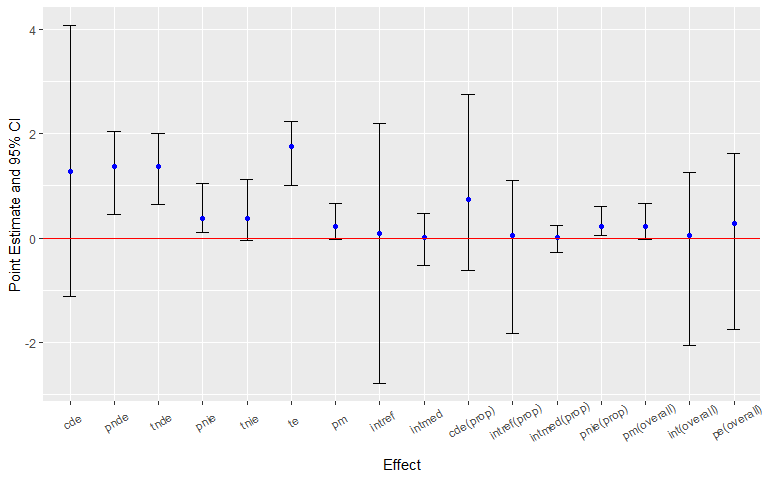
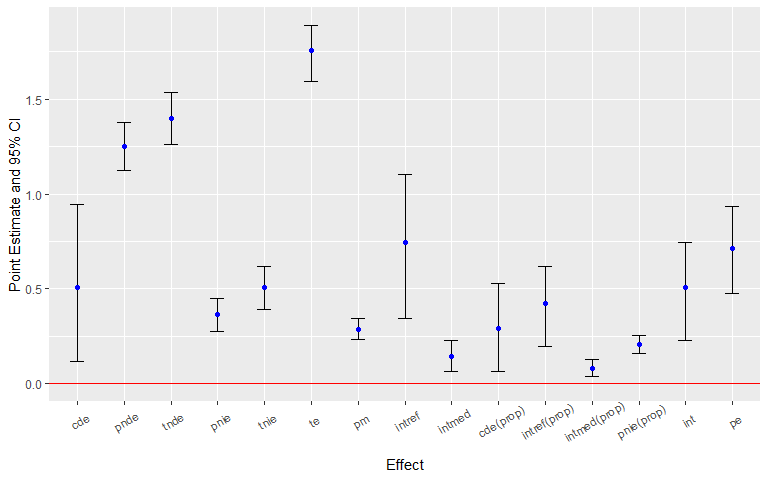
update readme

diff --git a/README.md b/README.md
@@ -324,7 +324,7 @@ analysis for measurement error via *regression calibration* by [Carroll
 et al. (1995)](https://www.taylorfrancis.com/books/9780429139635),
 *SIMEX* by [Cook et
 al. (1994)](https://www.jstor.org/stable/2290994?seq=1#metadata_info_tab_contents)
-or *MCSIMEX* by [Küchenhoff et
+and [Küchenhoff et
 al. (2006)](https://pubmed.ncbi.nlm.nih.gov/16542233/). The sensitivity
 analysis for measurement error is currently available for *the
 regression-based approach* and *the g-formula approach*.
@@ -349,7 +349,7 @@ scientific setting. The simulated dataset contains a binary exposure, a
 binary mediator, a continuous mediator, a continuous outcome and two
 pre-exposure confounders.
 
-    n <- 40
+    n <- 1000
     C1 <- rnorm(n, mean = 1, sd = 1)
     C2 <- rbinom(n, 1, 0.6)
     C2[which(C2 == 0)] <- "C2_0"
@@ -383,7 +383,7 @@ mediators are set to be 0.
                     mediator = c("M1", "M2"), prec = c("C1", "C2"), EMint = TRUE,
                     mreg = list("logistic", "linear"), yreg = "linear",
                     astar = 0, a = 1, mval = list(0, 0),
-                    estimation = "imputation", inference = "bootstrap", nboot = 20)
+                    estimation = "imputation", inference = "bootstrap", nboot = 200)
 
 Summarizing and plotting the results:
 
@@ -395,23 +395,22 @@ Summarizing and plotting the results:
     ## Direct counterfactual imputation estimation with 
     ##  bootstrap standard errors, percentile confidence intervals and p-values 
     ##  
-    ##               Estimate Std.error   95% CIL 95% CIU  P.val    
-    ## cde           1.273118  1.595874 -1.112653   4.073    0.5    
-    ## pnde          1.363440  0.457976  0.456143   2.041 <2e-16 ***
-    ## tnde          1.367450  0.454533  0.641847   2.008 <2e-16 ***
-    ## pnie          0.375361  0.281897  0.102192   1.044 <2e-16 ***
-    ## tnie          0.379371  0.329860 -0.055357   1.117    0.2    
-    ## te            1.742811  0.349930  1.012953   2.224 <2e-16 ***
-    ## pm            0.217678  0.196140 -0.030231   0.654    0.2    
-    ## intref        0.090321  1.520498 -2.787506   2.188    1.0    
-    ## intmed        0.004010  0.268167 -0.521705   0.475    0.9    
-    ## cde(prop)     0.730497  1.017719 -0.617633   2.754    0.5    
-    ## intref(prop)  0.051825  0.942821 -1.834950   1.098    1.0    
-    ## intmed(prop)  0.002301  0.145790 -0.273135   0.248    0.9    
-    ## pnie(prop)    0.215377  0.167902  0.055972   0.605 <2e-16 ***
-    ## pm(overall)   0.217678  0.196140 -0.030231   0.654    0.2    
-    ## int(overall)  0.054126  1.064039 -2.061608   1.260    1.0    
-    ## pe(overall)   0.269503  1.017719 -1.753911   1.618    0.9    
+    ##              Estimate Std.error 95% CIL 95% CIU  P.val    
+    ## cde           0.50840   0.21771 0.11721   0.943   0.01 ** 
+    ## pnde          1.25255   0.07426 1.12205   1.379 <2e-16 ***
+    ## tnde          1.39694   0.07759 1.26164   1.533 <2e-16 ***
+    ## pnie          0.36253   0.04595 0.27384   0.447 <2e-16 ***
+    ## tnie          0.50692   0.05663 0.39014   0.617 <2e-16 ***
+    ## te            1.75947   0.07902 1.59151   1.890 <2e-16 ***
+    ## pm            0.28811   0.02914 0.23040   0.346 <2e-16 ***
+    ## intref        0.74415   0.19221 0.34190   1.103 <2e-16 ***
+    ## intmed        0.14439   0.04146 0.06427   0.226 <2e-16 ***
+    ## cde(prop)     0.28895   0.12131 0.06525   0.527   0.01 ** 
+    ## intref(prop)  0.42294   0.10853 0.19393   0.618 <2e-16 ***
+    ## intmed(prop)  0.08206   0.02279 0.03532   0.128 <2e-16 ***
+    ## pnie(prop)    0.20604   0.02464 0.15653   0.254 <2e-16 ***
+    ## int           0.50501   0.12963 0.22778   0.744 <2e-16 ***
+    ## pe            0.71105   0.12131 0.47325   0.935 <2e-16 ***
     ## ---
     ## Signif. codes:  0 '***' 0.001 '**' 0.01 '*' 0.05 '.' 0.1 ' ' 1
 
@@ -428,13 +427,13 @@ analysis for unmeasured confounding:
     ## Sensitivity Analysis For Unmeasured Confounding 
     ## 
     ## Evalues on the ratio scale: 
-    ##         estRR   lowerRR  upperRR Evalue.estRR Evalue.lowerRR Evalue.upperRR
-    ## cde  1.617035 0.4976838 5.253942     2.615918       1.000000             NA
-    ## pnde 1.673120 1.1930619 2.346341     2.734350       1.672994             NA
-    ## tnde 1.675654 1.1979110 2.343928     2.739686       1.684819             NA
-    ## pnie 1.152227 0.9357052 1.418852     1.571035       1.000000             NA
-    ## tnie 1.153972 0.9045150 1.472228     1.575493       1.000000             NA
-    ## te   1.930734 1.4910994 2.499990     3.271256       2.346832             NA
+    ##         estRR  lowerRR  upperRR Evalue.estRR Evalue.lowerRR Evalue.upperRR
+    ## cde  1.235837 1.034976 1.475680     1.775705       1.225239             NA
+    ## pnde 1.684873 1.585959 1.789957     2.759082       2.549964             NA
+    ## tnde 1.789309 1.679699 1.906072     2.977719       2.748197             NA
+    ## pnie 1.162990 1.120261 1.207349     1.598371       1.487309             NA
+    ## tnie 1.235078 1.179395 1.293389     1.773909       1.639370             NA
+    ## te   2.080949 1.951198 2.219329     3.580749       3.313539             NA
 
 Assume that the continuous pre-exposure confounder was measured with
 error. Sensitivity analysis for measurement error using regression
@@ -456,23 +455,22 @@ Summarizing and plotting the results:
     ## Measurement error 1: 
     ## 0.1
     ## Measurement error correction for measurement error 1: 
-    ##              Estimate Std.error  95% CIL 95% CIU  P.val    
-    ## cde           1.27102   2.00787 -3.68202   2.764    0.7    
-    ## pnde          1.34051   0.52110  0.20819   1.932 <2e-16 ***
-    ## tnde          1.37234   0.36113  0.63274   1.834 <2e-16 ***
-    ## pnie          0.39304   0.27582 -0.11825   0.756    0.6    
-    ## tnie          0.42487   0.29915 -0.11463   0.866    0.3    
-    ## te            1.76538   0.39203  0.85927   2.148 <2e-16 ***
-    ## pm            0.24067   0.25315 -0.06564   0.807    0.3    
-    ## intref        0.06949   1.66750 -1.15252   4.034    0.8    
-    ## intmed        0.03183   0.26842 -0.26100   0.629    0.8    
-    ## cde(prop)     0.71997   1.82324 -4.26159   1.752    0.7    
-    ## intref(prop)  0.03936   1.73260 -0.93538   4.697    0.8    
-    ## intmed(prop)  0.01803   0.21570 -0.13694   0.592    0.8    
-    ## pnie(prop)    0.22264   0.18098 -0.10888   0.497    0.6    
-    ## pm(overall)   0.24067   0.25315 -0.06564   0.807    0.3    
-    ## int(overall)  0.05739   1.88775 -0.86013   5.206    0.8    
-    ## pe(overall)   0.28003   1.82324 -0.75224   5.262    0.8    
+    ##              Estimate Std.error 95% CIL 95% CIU  P.val    
+    ## cde           0.50598   0.23108 0.08034   0.976   0.02 *  
+    ## pnde          1.24983   0.07529 1.11949   1.404 <2e-16 ***
+    ## tnde          1.39434   0.07578 1.26833   1.545 <2e-16 ***
+    ## pnie          0.36530   0.04265 0.28746   0.458 <2e-16 ***
+    ## tnie          0.50981   0.05794 0.41377   0.627 <2e-16 ***
+    ## te            1.75965   0.07913 1.63462   1.925 <2e-16 ***
+    ## pm            0.28972   0.02938 0.23603   0.342 <2e-16 ***
+    ## intref        0.74386   0.19896 0.37153   1.136 <2e-16 ***
+    ## intmed        0.14451   0.04499 0.06540   0.239 <2e-16 ***
+    ## cde(prop)     0.28754   0.12916 0.04251   0.554   0.02 *  
+    ## intref(prop)  0.42273   0.11216 0.20861   0.630 <2e-16 ***
+    ## intmed(prop)  0.08212   0.02471 0.03615   0.132 <2e-16 ***
+    ## pnie(prop)    0.20760   0.02247 0.16485   0.246 <2e-16 ***
+    ## int           0.50486   0.13551 0.24500   0.752 <2e-16 ***
+    ## pe            0.71246   0.12916 0.44569   0.957 <2e-16 ***
     ## ---
     ## Signif. codes:  0 '***' 0.001 '**' 0.01 '*' 0.05 '.' 0.1 ' ' 1
     ## ----------------------------------------------------------------
@@ -480,23 +478,22 @@ Summarizing and plotting the results:
     ## Measurement error 2: 
     ## 0.2
     ## Measurement error correction for measurement error 2: 
-    ##              Estimate Std.error  95% CIL 95% CIU  P.val    
-    ## cde           1.26407   1.39733 -1.66839   2.726    0.6    
-    ## pnde          1.34393   0.46566  0.49135   2.015 <2e-16 ***
-    ## tnde          1.36339   0.44596  0.49689   2.026 <2e-16 ***
-    ## pnie          0.39303   0.31283 -0.06963   1.044    0.2    
-    ## tnie          0.41250   0.32592 -0.07940   1.066    0.1 .  
-    ## te            1.75643   0.35076  1.24339   2.287 <2e-16 ***
-    ## pm            0.23485   0.20550 -0.04816   0.663    0.1 .  
-    ## intref        0.07986   1.33312 -1.16717   3.112    0.7    
-    ## intmed        0.01946   0.21036 -0.30378   0.354    0.7    
-    ## cde(prop)     0.71968   0.82998 -0.99769   1.683    0.6    
-    ## intref(prop)  0.04547   0.82941 -0.77446   1.941    0.7    
-    ## intmed(prop)  0.01108   0.12523 -0.18753   0.212    0.7    
-    ## pnie(prop)    0.22377   0.19616 -0.04367   0.680    0.2    
-    ## pm(overall)   0.23485   0.20550 -0.04816   0.663    0.1 .  
-    ## int(overall)  0.05655   0.88182 -0.85189   1.900    0.7    
-    ## pe(overall)   0.28032   0.82998 -0.68250   1.998    0.6    
+    ##              Estimate Std.error 95% CIL 95% CIU  P.val    
+    ## cde           0.49819   0.20480 0.06779   0.855   0.02 *  
+    ## pnde          1.25834   0.07466 1.11020   1.409 <2e-16 ***
+    ## tnde          1.40438   0.07566 1.24924   1.552 <2e-16 ***
+    ## pnie          0.37268   0.04685 0.28064   0.459 <2e-16 ***
+    ## tnie          0.51873   0.06007 0.38282   0.627 <2e-16 ***
+    ## te            1.77706   0.08345 1.58625   1.917 <2e-16 ***
+    ## pm            0.29190   0.02965 0.22871   0.340 <2e-16 ***
+    ## intref        0.76015   0.17551 0.43728   1.105 <2e-16 ***
+    ## intmed        0.14604   0.03900 0.07424   0.225 <2e-16 ***
+    ## cde(prop)     0.28034   0.11473 0.04006   0.509   0.02 *  
+    ## intref(prop)  0.42776   0.10052 0.24759   0.654 <2e-16 ***
+    ## intmed(prop)  0.08218   0.02152 0.04131   0.129 <2e-16 ***
+    ## pnie(prop)    0.20972   0.02384 0.16467   0.255 <2e-16 ***
+    ## int           0.50994   0.12056 0.29538   0.768 <2e-16 ***
+    ## pe            0.71966   0.11473 0.49126   0.960 <2e-16 ***
     ## ---
     ## Signif. codes:  0 '***' 0.001 '**' 0.01 '*' 0.05 '.' 0.1 ' ' 1
     ## ----------------------------------------------------------------
@@ -504,23 +501,22 @@ Summarizing and plotting the results:
     ## Measurement error 3: 
     ## 0.3
     ## Measurement error correction for measurement error 3: 
-    ##               Estimate Std.error   95% CIL 95% CIU  P.val    
-    ## cde           1.249805  1.401813 -0.278105   4.035    0.2    
-    ## pnde          1.326775  0.326049  0.878606   2.113 <2e-16 ***
-    ## tnde          1.340006  0.397688  0.475963   1.854 <2e-16 ***
-    ## pnie          0.403599  0.327298 -0.027813   1.103    0.1 .  
-    ## tnie          0.416830  0.258349 -0.250328   0.646    0.1 .  
-    ## te            1.743605  0.282743  1.235112   2.250 <2e-16 ***
-    ## pm            0.239062  0.140727 -0.139532   0.349    0.1 .  
-    ## intref        0.076970  1.313001 -2.689711   1.374    0.7    
-    ## intmed        0.013231  0.280392 -0.683201   0.216    0.7    
-    ## cde(prop)     0.716794  0.856064 -0.185511   2.548    0.2    
-    ## intref(prop)  0.044144  0.811579 -1.728870   0.901    0.7    
-    ## intmed(prop)  0.007588  0.174005 -0.425317   0.128    0.7    
-    ## pnie(prop)    0.231474  0.195711 -0.017025   0.652    0.1 .  
-    ## pm(overall)   0.239062  0.140727 -0.139532   0.349    0.1 .  
-    ## int(overall)  0.051733  0.946489 -2.154187   0.995    0.7    
-    ## pe(overall)   0.283206  0.856064 -1.548267   1.186    1.0    
+    ##              Estimate Std.error  95% CIL 95% CIU  P.val    
+    ## cde           0.48316   0.22187 -0.03368   0.915   0.07 .  
+    ## pnde          1.23506   0.07521  1.08796   1.383 <2e-16 ***
+    ## tnde          1.38531   0.07117  1.25762   1.528 <2e-16 ***
+    ## pnie          0.38537   0.04651  0.28943   0.465 <2e-16 ***
+    ## tnie          0.53562   0.06214  0.42100   0.667 <2e-16 ***
+    ## te            1.77068   0.07794  1.63066   1.927 <2e-16 ***
+    ## pm            0.30249   0.03172  0.24163   0.371 <2e-16 ***
+    ## intref        0.75189   0.18716  0.38381   1.183 <2e-16 ***
+    ## intmed        0.15025   0.04159  0.07192   0.245 <2e-16 ***
+    ## cde(prop)     0.27287   0.12300 -0.01888   0.508   0.07 .  
+    ## intref(prop)  0.42464   0.10632  0.22663   0.657 <2e-16 ***
+    ## intmed(prop)  0.08486   0.02299  0.03987   0.141 <2e-16 ***
+    ## pnie(prop)    0.21764   0.02383  0.16868   0.261 <2e-16 ***
+    ## int           0.50949   0.12781  0.26301   0.801 <2e-16 ***
+    ## pe            0.72713   0.12300  0.49247   1.019 <2e-16 ***
     ## ---
     ## Signif. codes:  0 '***' 0.001 '**' 0.01 '*' 0.05 '.' 0.1 ' ' 1
     ## ----------------------------------------------------------------
@@ -531,11 +527,11 @@ Summarizing and plotting the results:
 ![](man/figures/plot_cmsens_me_con-1.png)
 
 Then, assume that the exposure was measured with error. Sensitivity
-analysis for measurement error using MCSIMEX with two assumed
+analysis for measurement error using SIMEX with two assumed
 misclassification matrices:
 
     me2 <- cmsens(object = est, sens = "me", MEmethod = "simex", MEvariable = "A", 
-                  MEvartype = "cat", B = 5,
+                  MEvartype = "cat", B = 200,
                   MEerror = list(matrix(c(0.95, 0.05, 0.05, 0.95), nrow = 2), 
                                  matrix(c(0.9, 0.1, 0.1, 0.9), nrow = 2)))
 
@@ -554,23 +550,22 @@ Summarizing and plotting the results:
     ## [2,] 0.05 0.95
     ## 
     ## Measurement error correction for measurement error 1: 
-    ##              Estimate Std.error  95% CIL 95% CIU  P.val    
-    ## cde           1.09324   2.01041 -0.51816   6.370    0.1 .  
-    ## pnde          0.96771   0.55788  0.76430   2.866 <2e-16 ***
-    ## tnde          0.94099   0.49502  0.58297   2.437 <2e-16 ***
-    ## pnie          0.35133   0.31609 -0.24260   0.802    0.2    
-    ## tnie          0.32461   0.32142 -0.33704   0.816    1.0    
-    ## te            1.29232   0.48032  0.86513   2.597 <2e-16 ***
-    ## pm            0.25119   0.15678 -0.17457   0.387    1.0    
-    ## intref       -0.12553   1.74065 -3.84111   1.857    0.5    
-    ## intmed       -0.02672   0.36864 -0.74270   0.392    0.7    
-    ## cde(prop)     0.84595   1.50323 -0.26566   5.157    0.1 .  
-    ## intref(prop) -0.09714   1.40958 -4.04172   0.934    0.5    
-    ## intmed(prop) -0.02068   0.20662 -0.45985   0.196    0.7    
-    ## pnie(prop)    0.27186   0.16902 -0.13962   0.443    0.2    
-    ## pm(overall)   0.25119   0.15678 -0.17457   0.387    1.0    
-    ## int(overall) -0.11781   1.57401 -4.46861   1.130    0.5    
-    ## pe(overall)   0.15405   1.50323 -4.15657   1.266    0.5    
+    ##              Estimate Std.error 95% CIL 95% CIU  P.val    
+    ## cde           0.65098   0.23996 0.26578   1.163   0.01 ** 
+    ## pnde          1.45923   0.08491 1.30829   1.646 <2e-16 ***
+    ## tnde          1.63709   0.08167 1.48924   1.797 <2e-16 ***
+    ## pnie          0.35129   0.04408 0.27601   0.440 <2e-16 ***
+    ## tnie          0.52914   0.05851 0.40906   0.628 <2e-16 ***
+    ## te            1.98838   0.08779 1.82524   2.184 <2e-16 ***
+    ## pm            0.26612   0.02710 0.21305   0.313 <2e-16 ***
+    ## intref        0.80825   0.19515 0.39510   1.152 <2e-16 ***
+    ## intmed        0.17785   0.04951 0.07548   0.262 <2e-16 ***
+    ## cde(prop)     0.32739   0.11677 0.13725   0.580   0.01 ** 
+    ## intref(prop)  0.40649   0.10052 0.19245   0.574 <2e-16 ***
+    ## intmed(prop)  0.08945   0.02476 0.03666   0.131 <2e-16 ***
+    ## pnie(prop)    0.17667   0.02044 0.13855   0.221 <2e-16 ***
+    ## int           0.49594   0.12369 0.22912   0.702 <2e-16 ***
+    ## pe            0.67261   0.11677 0.42017   0.863 <2e-16 ***
     ## ---
     ## Signif. codes:  0 '***' 0.001 '**' 0.01 '*' 0.05 '.' 0.1 ' ' 1
     ## ----------------------------------------------------------------
@@ -581,23 +576,22 @@ Summarizing and plotting the results:
     ## [2,]  0.1  0.9
     ## 
     ## Measurement error correction for measurement error 2: 
-    ##               Estimate Std.error   95% CIL 95% CIU  P.val    
-    ## cde           2.089372  3.309598 -2.925036   9.292    0.7    
-    ## pnde          1.707111  0.935999  0.319811   3.655    0.1 .  
-    ## tnde          1.597892  0.562148  0.706381   2.758 <2e-16 ***
-    ## pnie          0.471754  0.519230 -0.200292   1.719    0.2    
-    ## tnie          0.362535  0.657311 -0.851320   1.375    0.4    
-    ## te            2.069646  0.555434  1.288233   3.263 <2e-16 ***
-    ## pm            0.175168  0.357698 -0.385778   0.873    0.4    
-    ## intref       -0.382262  2.758013 -5.637616   5.365    1.0    
-    ## intmed       -0.109219  0.779818 -2.077662   0.654    0.9    
-    ## cde(prop)     1.009531  1.400897 -1.254289   3.556    0.7    
-    ## intref(prop) -0.184699  1.150430 -2.195524   2.030    1.0    
-    ## intmed(prop) -0.052772  0.297905 -0.709989   0.428    0.9    
-    ## pnie(prop)    0.227940  0.197178 -0.107175   0.633    0.2    
-    ## pm(overall)   0.175168  0.357698 -0.385778   0.873    0.4    
-    ## int(overall) -0.237471  1.385430 -2.896411   2.020    1.0    
-    ## pe(overall)  -0.009531  1.400897 -2.556262   2.254    0.9    
+    ##              Estimate Std.error 95% CIL 95% CIU  P.val    
+    ## cde           0.85435   0.26376 0.25367   1.357 <2e-16 ***
+    ## pnde          1.68086   0.10547 1.48763   1.884 <2e-16 ***
+    ## tnde          1.88453   0.10944 1.67884   2.103 <2e-16 ***
+    ## pnie          0.35770   0.05221 0.24756   0.435 <2e-16 ***
+    ## tnie          0.56137   0.06669 0.42239   0.673 <2e-16 ***
+    ## te            2.24223   0.10407 2.04545   2.451 <2e-16 ***
+    ## pm            0.25036   0.02862 0.18967   0.304 <2e-16 ***
+    ## intref        0.82652   0.21739 0.37040   1.287 <2e-16 ***
+    ## intmed        0.20367   0.06528 0.07711   0.360 <2e-16 ***
+    ## cde(prop)     0.38102   0.11498 0.11460   0.613 <2e-16 ***
+    ## intref(prop)  0.36861   0.09755 0.16295   0.581 <2e-16 ***
+    ## intmed(prop)  0.09083   0.02870 0.03267   0.161 <2e-16 ***
+    ## pnie(prop)    0.15953   0.02325 0.10818   0.193 <2e-16 ***
+    ## int           0.45945   0.12460 0.19582   0.737 <2e-16 ***
+    ## pe            0.61898   0.11498 0.38651   0.885 <2e-16 ***
     ## ---
     ## Signif. codes:  0 '***' 0.001 '**' 0.01 '*' 0.05 '.' 0.1 ' ' 1
     ## ----------------------------------------------------------------
